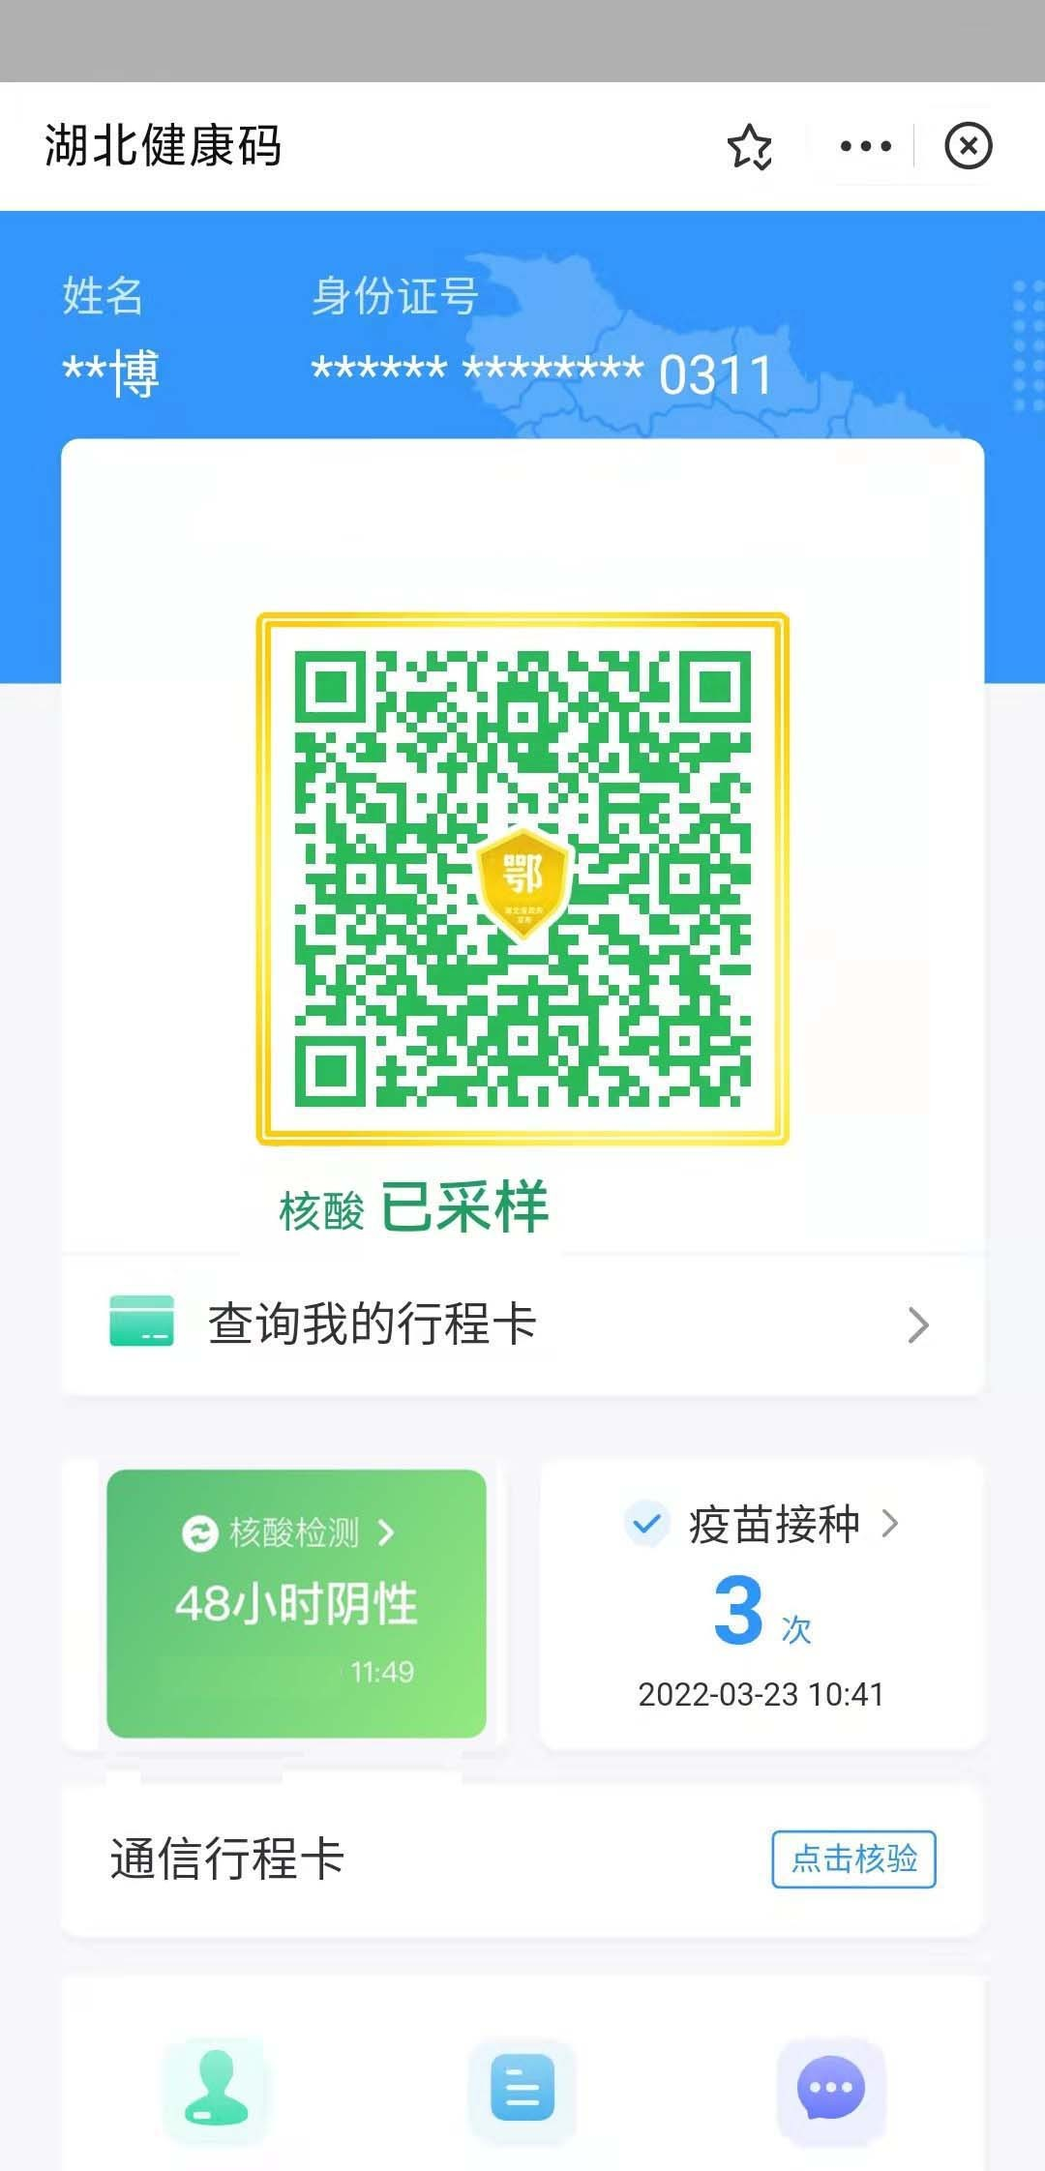
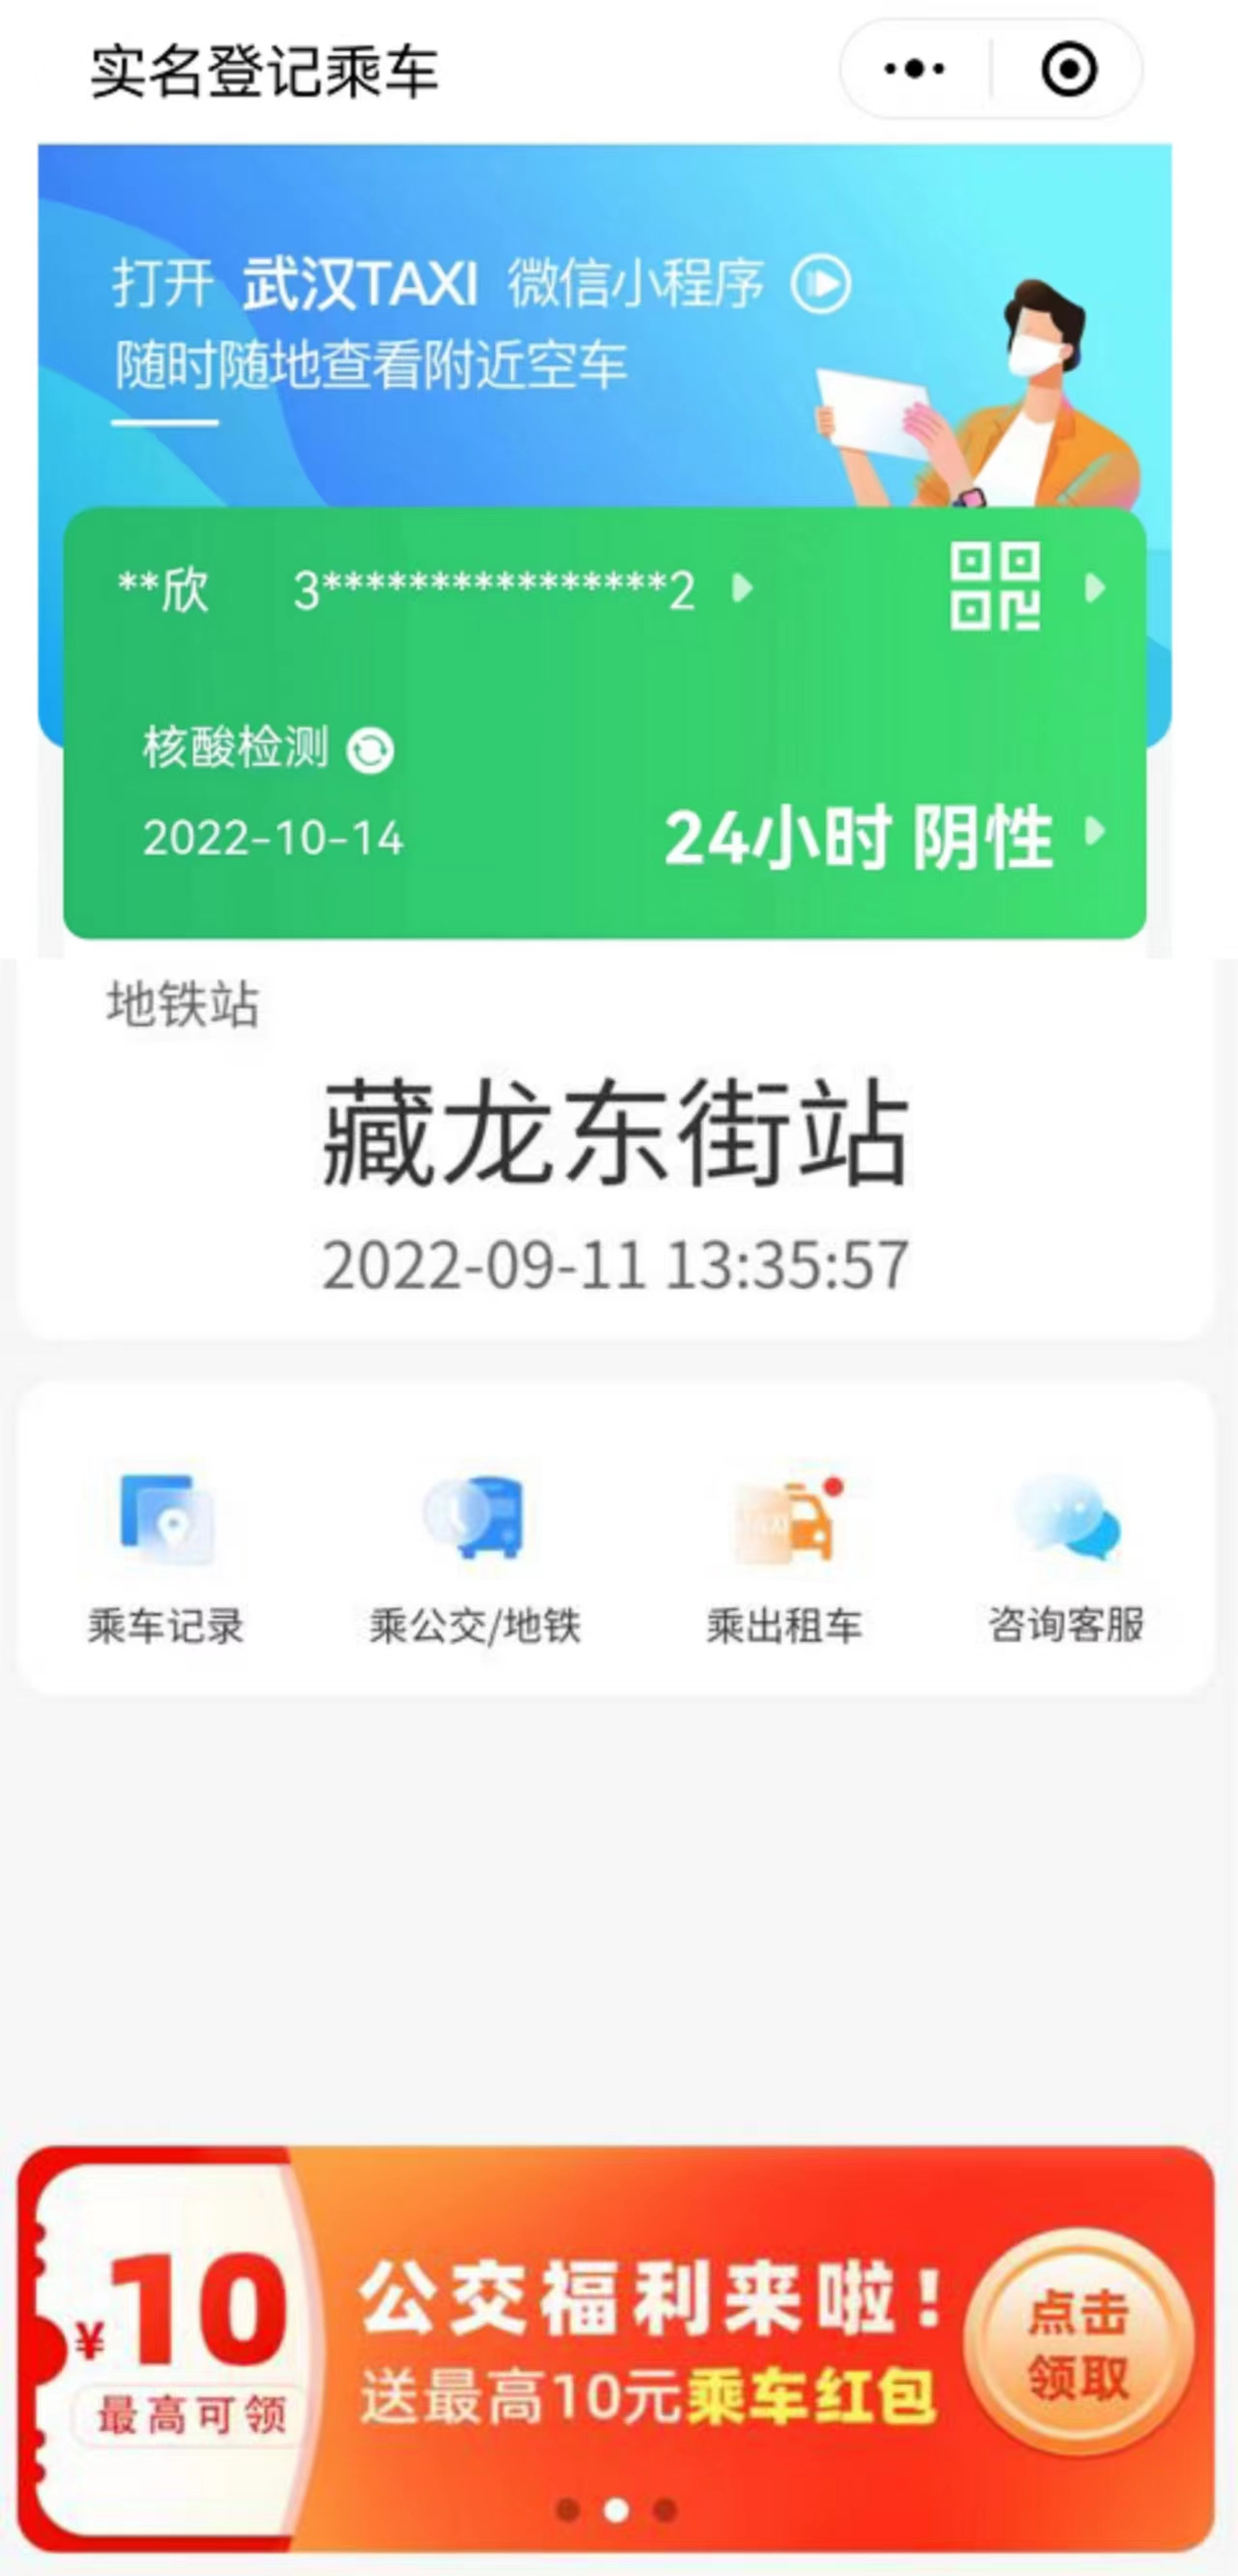
s

diff --git a/index.html b/index.html
@@ -2,7 +2,7 @@
 <html>
 <head>
 <meta charset="utf-8">
-<title>湖北健康码</title>
+<title>实名登记乘车</title>
 	<style>
 		body{background-image: url("empty.jpg");
 			background-repeat: no-repeat;
@@ -87,42 +87,6 @@ setInterval("fun2(show_time2)",0.11);
 		document.getElementById(timeID2.id).innerHTML 
 			= " "+y+"-"+m+"-"+d; 
 }
-setInterval("fun3(show_time3)",0.11);
-	function fun3(timeID3){ 
-		var date = new Date();  //创建对象  
-		var y = date.getFullYear();     //获取年份  
-		var m =date.getMonth()+1;   //获取月份  返回0-11  
-		var d = date.getDate()-1; // 获取日  
-		var w = date.getDay();   //获取星期几  返回0-6   (0=星期天) 
-		var ww = ' 星期'+'日一二三四五六'.charAt(new Date().getDay()) ;//星期几
-		var h = date.getHours();  //时
-		var minute = date.getMinutes()  //分
-		var s = date.getSeconds(); //秒
-		var sss = date.getMilliseconds() ; //毫秒
-		if(m<10){
-			m = "0"+m;
-		}
-		if(d<10){
-			d = "0"+d;
-		}
-		if(h<10){
-			h = "0"+h;
-		}
-			
-		if(minute<10){
-			minute = "0"+minute;
-		}
-				
-		if(s<10){
-			s = "0"+s;
-		}
-				
-		sss =sss/10;
-		sss = Math.floor(sss);
-		
-		document.getElementById(timeID3.id).innerHTML 
-			= " "+y+"-"+m+"-"+d; 
-}
 </script>
 <style>
 	.container{
@@ -134,20 +98,12 @@ setInterval("fun3(show_time3)",0.11);
 		
 		font-family:italic;
 		}
-		.container2{
+	.container2{
 		margin-top: 58%;
 		margin-left: 54%;
 		text-align: left;
 		color:rgb(63, 133, 68);
 		font-size: 50px;
-		font:italic;			
-		}
-		.container3{
-		margin-top: 40.5%;
-		margin-left: 16%;
-		text-align: left;
-		color:rgb(217, 241, 216);
-		font-size: 32px;
 		font:italic;			
 		}
 		
@@ -164,9 +120,6 @@ setInterval("fun3(show_time3)",0.11);
 	<span id= "show_time2">here is time</span>
 	
 </div>
-<div class="container3" id="time3">
-	
-	<span id= "show_time3">here is time</span>
 	
 </div>
 </body>
